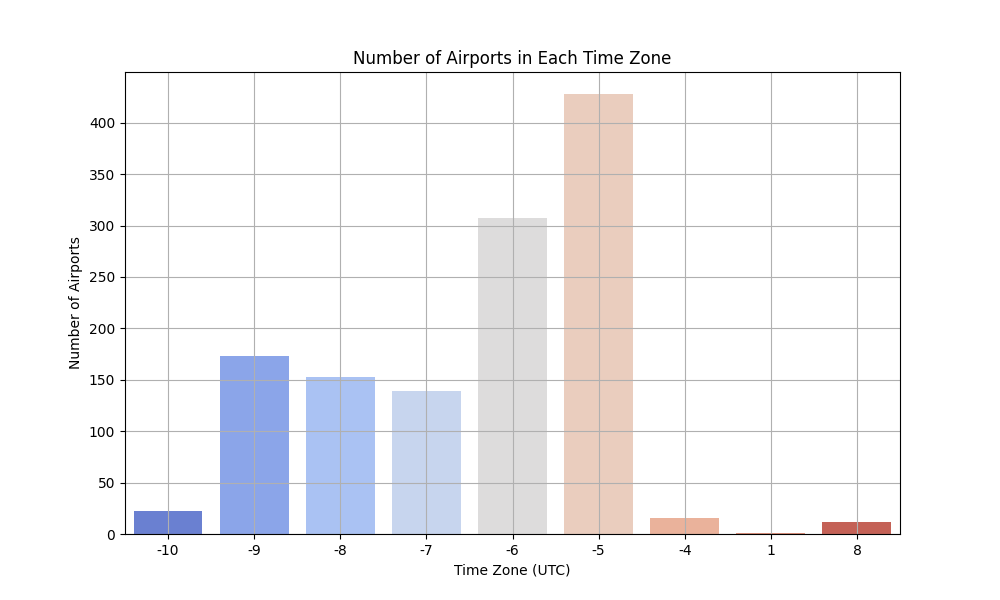
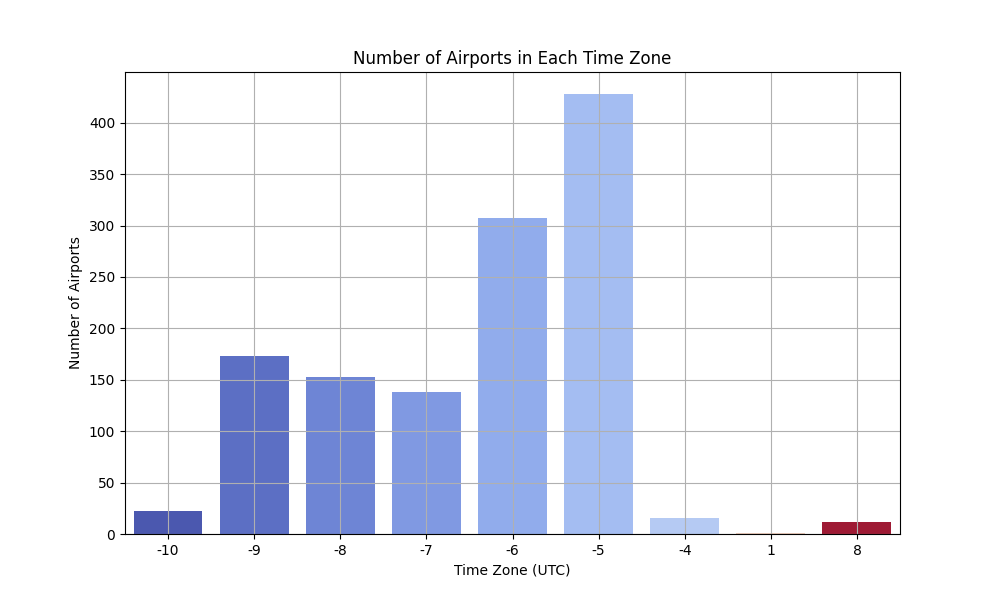
assign hue for palette and comment print
make the output clear

Changed region(s): [[0.124, 0.15, 0.744, 0.9], [0.806, 0.87, 0.899, 0.9]]

diff --git a/src/flights.py b/src/flights.py
@@ -9,17 +9,17 @@ import seaborn as sns
 # read airports.csv
 df = pd.read_csv("../data/airports.csv") 
 
-# descriptive statistics and data preprocessing
-print("first 5 rows of the dataset:\n", df.head())  # display first few rows
-print("dataset information:")
-df.info()  # display dataset information
+# # descriptive statistics and data preprocessing
+# print("first 5 rows of the dataset:\n", df.head())  # display first few rows
+# print("dataset information:")
+# df.info()  # display dataset information
 
-print("descriptive statistics:\n", df.describe())  # display descriptive statistics
-print("missing values in each column:\n", df.isnull().sum())  # check for missing values
+# print("descriptive statistics:\n", df.describe())  # display descriptive statistics
+# print("missing values in each column:\n", df.isnull().sum())  # check for missing values
 
-# display unique time zones and their corresponding tz values
-unique_tz_mapping = df[["tzone", "tz"]].dropna().drop_duplicates()
-print(unique_tz_mapping)
+# # display unique time zones and their corresponding tz values
+# unique_tz_mapping = df[["tzone", "tz"]].dropna().drop_duplicates()
+# print(unique_tz_mapping)
 
 # inferring missing values instead of deleting them
 tf = TimezoneFinder()
@@ -27,26 +27,27 @@ df["tzone"] = df.apply(lambda row: tf.timezone_at(lng=row["lon"], lat=row["lat"]
 # update tz values based on the inferred tzone
 tz_mapping_dynamic = dict(df[["tzone", "tz"]].dropna().drop_duplicates().values)
 df["tz"] = df.apply(lambda row: tz_mapping_dynamic.get(row["tzone"], row["tz"]) if pd.isnull(row["tz"]) else row["tz"], axis=1)
+
+# Need Fix:
 # infer dst based on the most common dst setting per tzone
 dst_mapping = df.groupby("tzone")["dst"].apply(lambda x: x.mode().iloc[0] if not x.isna().all() else "N").to_dict()
-
 # fill missing dst values
 df["dst"] = df.apply(lambda row: dst_mapping.get(row["tzone"], row["dst"]) if pd.isnull(row["dst"]) else row["dst"], axis=1)
 
-# check for missing values after inference
-print("missing values after inference:\n", df.isnull().sum())
-print(df[df["tz"].isnull()])
-print(df[df["tzone"] == "America/Boise"][["tzone", "tz"]].dropna().drop_duplicates()) # check for missing values in America/Boise
-df.loc[df["tzone"] == "America/Boise", "tz"] = -7 # fix missing values in America/Boise
-print("missing values after final fix:\n", df.isnull().sum()) 
+# # check for missing values after inference
+# print("missing values after inference:\n", df.isnull().sum())
+# print(df[df["tz"].isnull()])
+# print(df[df["tzone"] == "America/Boise"][["tzone", "tz"]].dropna().drop_duplicates()) # check for missing values in America/Boise
+# df.loc[df["tzone"] == "America/Boise", "tz"] = -7 # fix missing values in America/Boise
+# print("missing values after final fix:\n", df.isnull().sum()) 
 
 # convert altitude to meters
 df["alt_meters"] = df["alt"] * 0.3048
 df["tz"] = df["tz"].astype("Int64") # convert tz to integer
-df.info()
+# df.info()
 
 # explore relationships within the dataset
-print(df.describe()) # display descriptive statistics
+# print(df.describe()) # display descriptive statistics
 # scatter plot: altitude vs latitude
 plt.figure(figsize=(10, 6))
 plt.scatter(df["lat"], df["alt_meters"], alpha=0.5, color="blue")
@@ -59,17 +60,19 @@ plt.grid(True)
 # plt.show()
 
 # print(df["dst"].unique()) # display unique values in 'dst' column 
+# print(df["tzone"].unique()) # display unique values in 'tzone' column
+# print(df["tz"].unique()) # display unique values in 'tz' column
 
 # countplot: number of airports in each time zone
 plt.figure(figsize=(10, 6))
-sns.countplot(x=df["tz"], palette="coolwarm")
+sns.countplot(x=df["tz"], hue=df["tz"], palette="coolwarm", legend=False) 
 
 plt.xlabel("Time Zone (UTC)")
 plt.ylabel("Number of Airports")
 plt.title("Number of Airports in Each Time Zone")
 plt.grid(True)
 
-# plt.show()
+plt.show()
 
 # find airports that do not observe daylight saving time, later visualizing these airports on a map
 df_no_dst = df[df["dst"] == "N"]
@@ -99,7 +102,7 @@ fig_global = px.scatter_geo(df,
                             labels={"alt_meters": "Altitude (m)"}  # Set color legend title
     )
 
-fig_global.show()
+# fig_global.show()
 
 
 # plot US airport distribution, with color coded by 'alt' (altitude)
@@ -113,5 +116,6 @@ fig_us= px.scatter_geo(df,
                         color_continuous_scale="Viridis",
                         labels={"alt_meters": "Altitude (m)"} 
                         )
-fig_us.show()
+# fig_us.show()
+
 
